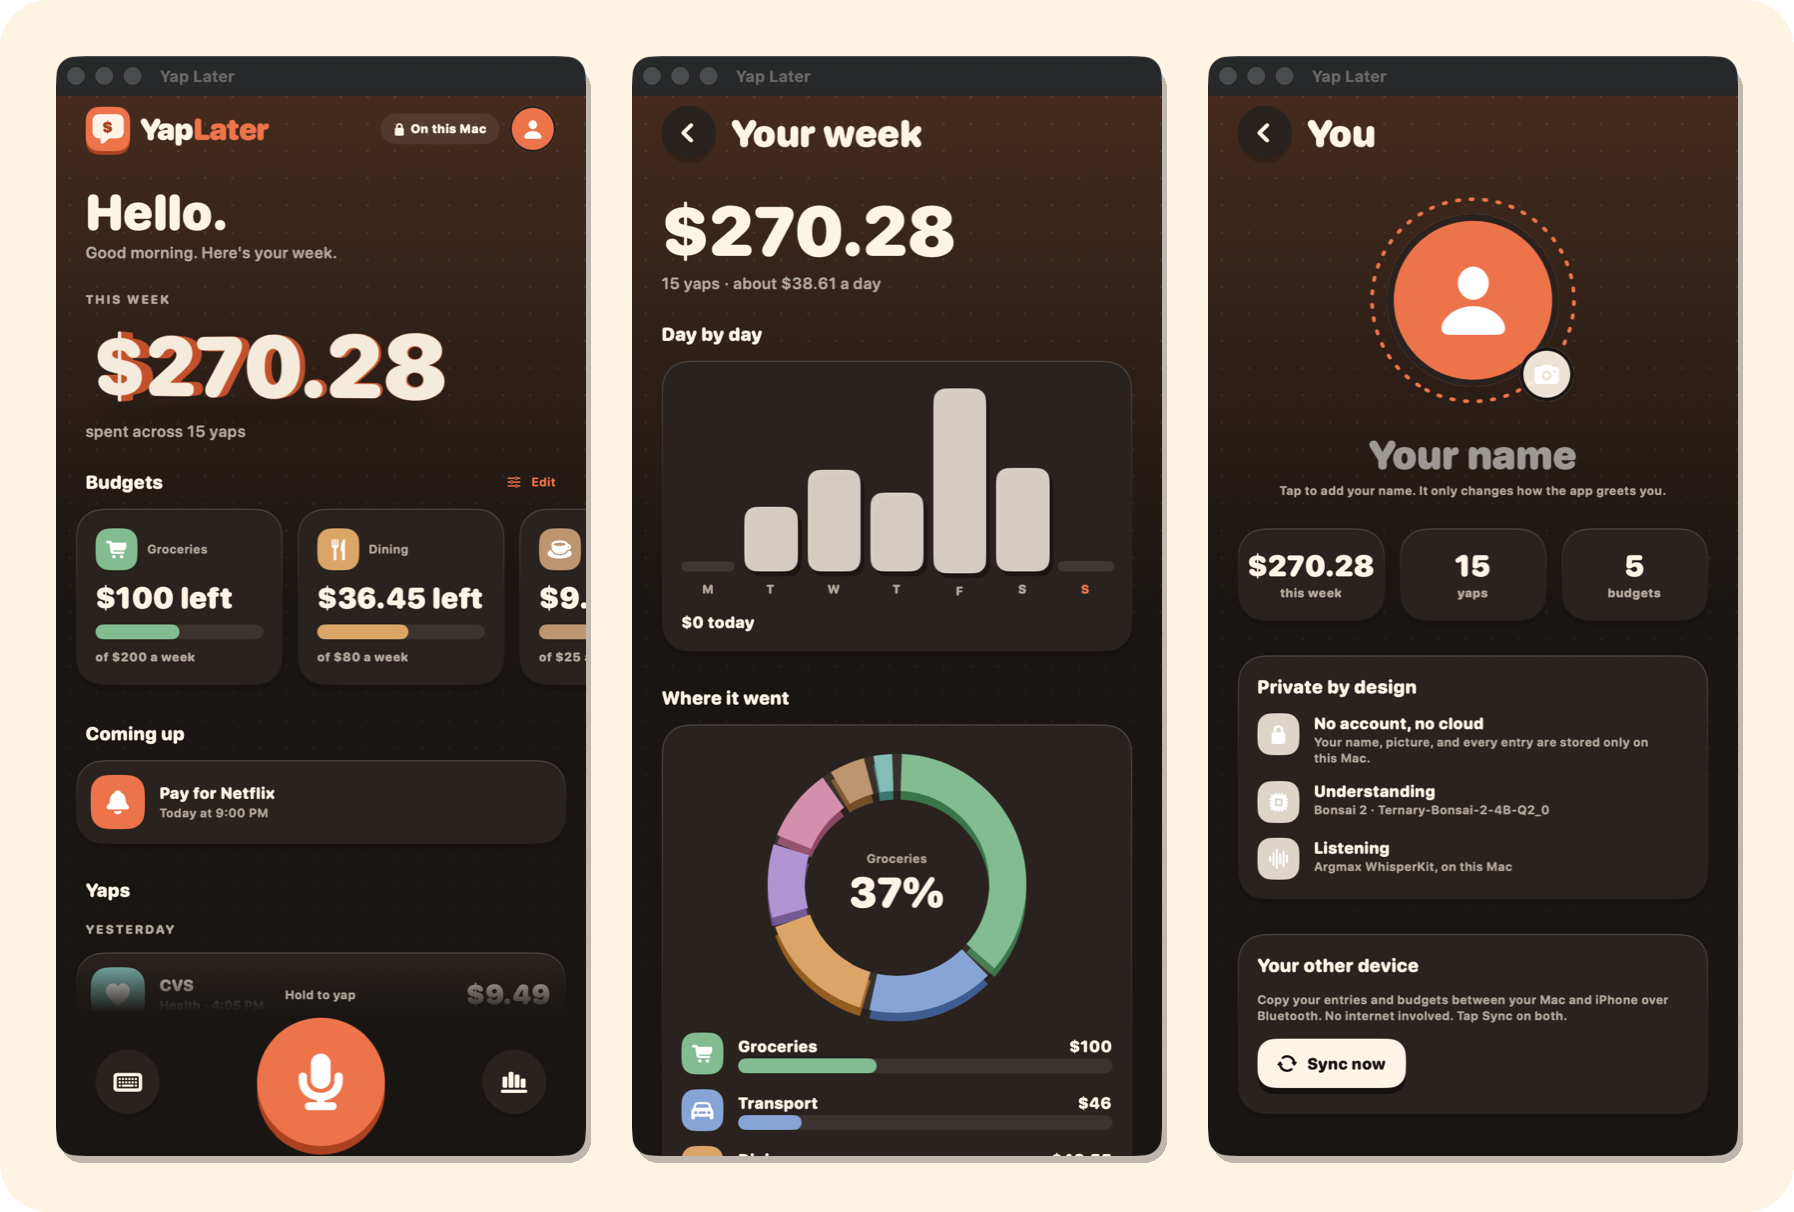
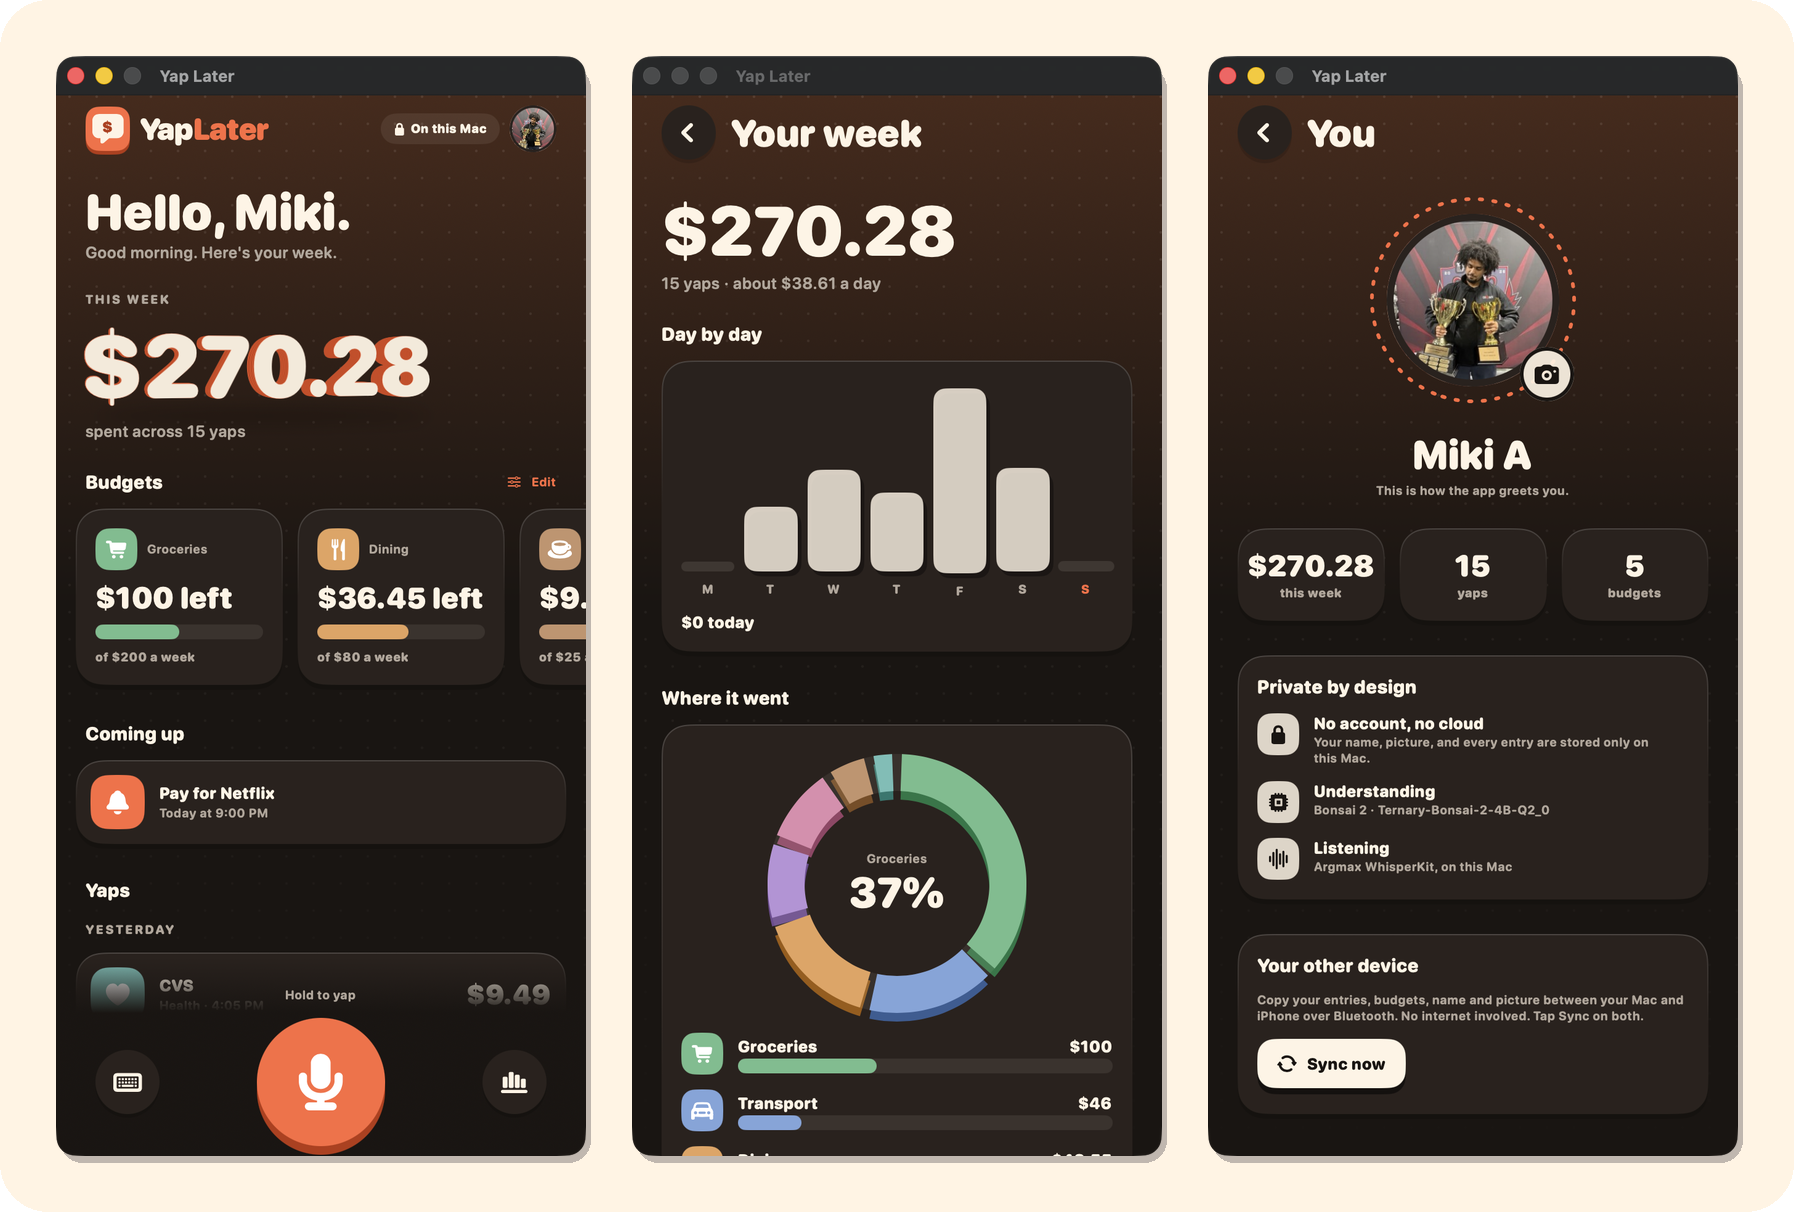
New screenshots with the synced profile; README and verification notes updated

diff --git a/README.md b/README.md
@@ -16,10 +16,10 @@
 </p>
 
 <p align="center">
-  <img src="docs/images/hero.png" alt="Yap Later on the Mac: the home screen with this week's total and budgets, the charts page, and the profile page">
+  <img src="docs/images/hero.png" alt="Yap Later on the Mac: the home screen greeting the user by name with this week's total and budgets, the charts page, and the profile page with a name and picture">
 </p>
 
-<p align="center"><sub>The Mac build, showing the demo week described under <a href="#honest-limitations">Honest limitations</a>.</sub></p>
+<p align="center"><sub>The Mac build, showing the demo week described under <a href="#honest-limitations">Honest limitations</a>. The name and picture arrived from the iPhone over Bluetooth.</sub></p>
 
 Built in one weekend for Cornell's Local AI Hackathon (November 14–15, 2026). The theme was **Recreate**: take an AI app that already exists and remake it so it runs fully on-device.
 
@@ -52,7 +52,7 @@ There is nothing to sign up for and nothing to connect. Turn on airplane mode an
 | An expense pushes a budget low | A banner, a spoken warning, and a notification: "Only $50 left for Groceries this week" |
 | "Remind me to pay rent tomorrow at six pm" | A card shows the title and exact time; tapping Save creates an Apple Reminder with an alert |
 | Tap the chart button | Your week in charts: spending by day, a category ring you can tilt, and a short list of what deserves attention |
-| Tap your picture | A profile page with your name and photo, kept on the device, and a button that syncs your Mac and iPhone over Bluetooth |
+| Tap your picture | A profile page with your name and photo, kept on the device, and a button that syncs your entries, budgets, name and picture between Mac and iPhone over Bluetooth |
 | Press the Action Button | "Start a Yap" opens the app already listening |
 
 A week runs Monday through Sunday. Any entry can be corrected by tapping it.
@@ -94,8 +94,8 @@ Every box runs on the device. There are no network calls in the app.
 | Argmax voice, time to first audio | 0.2 to 0.5 s on the Mac, 0.3 to 0.6 s on the iPhone |
 | Airplane mode on the iPhone, Wi-Fi off on the Mac | The full loop was run by hand on both and worked |
 | Mac check with all network access denied to the app's process | 23 of 23; a typed budget and expense were saved and the nudge was spoken |
-| Bluetooth sync | Entries logged on the iPhone arrived on the Mac |
-| Unit tests | 49 passing |
+| Bluetooth sync | Entries logged on the iPhone arrived on the Mac, and so did the name and picture set on the iPhone |
+| Unit tests | 51 passing |
 
 The report is in [`eval/results/`](eval/results/). The check sentences are synthetic and a few overlap with example wording, so read the score as a sanity check, not a benchmark. [`docs/FEASIBILITY.md`](docs/FEASIBILITY.md) lists what was verified, how, and what was not.
 
@@ -165,7 +165,7 @@ Unit tests: `xcodebuild test -project app/YapLater.xcodeproj -scheme YapLater -d
 - English and US dollars only.
 - A sentence with several expenses is split in app code at commas and joining words, one amount per part. If any part is not a clear expense, the whole sentence is treated as one request.
 - The app checks that the proposed amount matches a number you said; unusual phrasings of amounts may make it ask again.
-- Sync copies entries and budgets that the other device lacks. Edits and deletions do not travel, and reminders are not synced.
+- Sync copies entries and budgets that the other device lacks, plus your name and picture (whichever device changed them last wins). Edits and deletions do not travel, and reminders are not synced.
 - Reminders are saved to Apple Reminders only after you tap Save.
 - On the iPhone the spoken voice is the system voice by default. The Argmax voice works there too but takes about 20 s to load; `scripts/voice.sh iphone on` switches it on.
 - If no Bonsai file is present, the app falls back to Apple's on-device model, and to a labeled MOCK if neither is available. The profile page shows which is in use.
@@ -176,7 +176,7 @@ Unit tests: `xcodebuild test -project app/YapLater.xcodeproj -scheme YapLater -d
 | Path | What is there |
 |---|---|
 | [`app/YapLater/`](app/YapLater/) | The app: `Domain` (pure Swift rules), `Services` (speech, model, sync, reminders), `Store`, `Features` (screens), `DesignSystem` |
-| [`app/YapLaterTests/`](app/YapLaterTests/) | 49 unit tests for amounts, dates, budgets, the voice loop, sync merging, and the chart numbers |
+| [`app/YapLaterTests/`](app/YapLaterTests/) | 51 unit tests for amounts, dates, budgets, the voice loop, sync merging, and the chart numbers |
 | [`docs/PITCH.md`](docs/PITCH.md), [`docs/video-script.pdf`](docs/video-script.pdf) | The 2-minute video script and the clips to record |
 | [`docs/FEASIBILITY.md`](docs/FEASIBILITY.md) | What was verified on real devices, and what was not |
 | [`docs/CONTRACTS.md`](docs/CONTRACTS.md), [`contracts/`](contracts/) | How a sentence becomes stored data, with the JSON shapes the model must return |

diff --git a/docs/FEASIBILITY.md b/docs/FEASIBILITY.md
@@ -13,7 +13,7 @@ Each row is something the app has to do on real hardware, the evidence for it, a
 | Ramble | Four test rambles (9 parts) run through Bonsai 2 4B on the iPhone via the debug probe: every part read correctly. Not yet tried with a live voice | **PASS on device (typed probe); live voice NOT RUN** |
 | Mac, Wi-Fi off | Native macOS build of the same app (ad hoc signed, llama.cpp macOS slice, WhisperKit), 2026-11-15 08:28 EST: Bonsai 2 4B 23/23 on the built-in eval, median 558 ms, load 4.4 s; WhisperKit synthetic speech test correct. Repeated at 08:31 with all network access denied to the app's process (`sandbox-exec` with `deny network*`): eval 23/23, median 563 ms, speech test correct. Not yet done: a live microphone yap in the window, and a run with the Mac's Wi-Fi switched off Update 09:25 EST: the user ran the Mac app with Wi-Fi off by voice and reported that it works | **PASS (model and speech measured; live Wi-Fi-off run user-observed)** |
 | Argmax voice | TTSKit 1.1.1 with Qwen3-TTS 0.6B. Mac, 2026-11-15 08:38 EST: loads in about 2 s with network access denied; first audio 0.2 to 0.5 s. iPhone 17 Pro, 08:58 EST: first load took several minutes (one-time model preparation), later loads about 20 s; first audio 0.3 to 0.6 s; a 1 s question took 3.7 to 4.5 s in total, slower than real time; interrupting it at 1.5 s and recording for 4 s transcribed nothing, so the microphone does not hear the app. Nobody has listened to judge how it sounds. Default: on for the Mac, off for the iPhone (`scripts/voice.sh`) | **PASS on Mac and iPhone (timing and interruption); sound quality not judged** |
-| Bluetooth sync | Merge rules and the cutting of a ledger into Bluetooth-sized pieces pass unit tests. On the real devices, 2026-11-15 about 09:25 EST: the user tapped Sync and reported the data arriving; afterwards the Mac's ledger held the same eight entries the iPhone had logged that morning. Whether Wi-Fi was off during that sync was not recorded. Edits and deletions do not travel | **PASS (user-observed, iPhone to Mac)** |
+| Bluetooth sync | Merge rules and the cutting of a ledger into Bluetooth-sized pieces pass unit tests. On the real devices, 2026-11-15 about 09:25 EST: the user tapped Sync and reported the data arriving; afterwards the Mac's ledger held the same eight entries the iPhone had logged that morning. Whether Wi-Fi was off during that sync was not recorded. Edits and deletions do not travel. The name and picture were added to the sync afterwards. On 2026-11-15 at 10:35 EST, after a sync started from both devices, the name and a 33 KB picture set on the iPhone were present on the Mac. The other direction (Mac to iPhone) was not tried | **PASS (user-observed, iPhone to Mac)** |
 | G1-fallback: Foundation Models | Compiles and is wired as a labeled fallback; not exercised on the phone because Bonsai is present | NOT RUN |
 
 Findings worth keeping:
